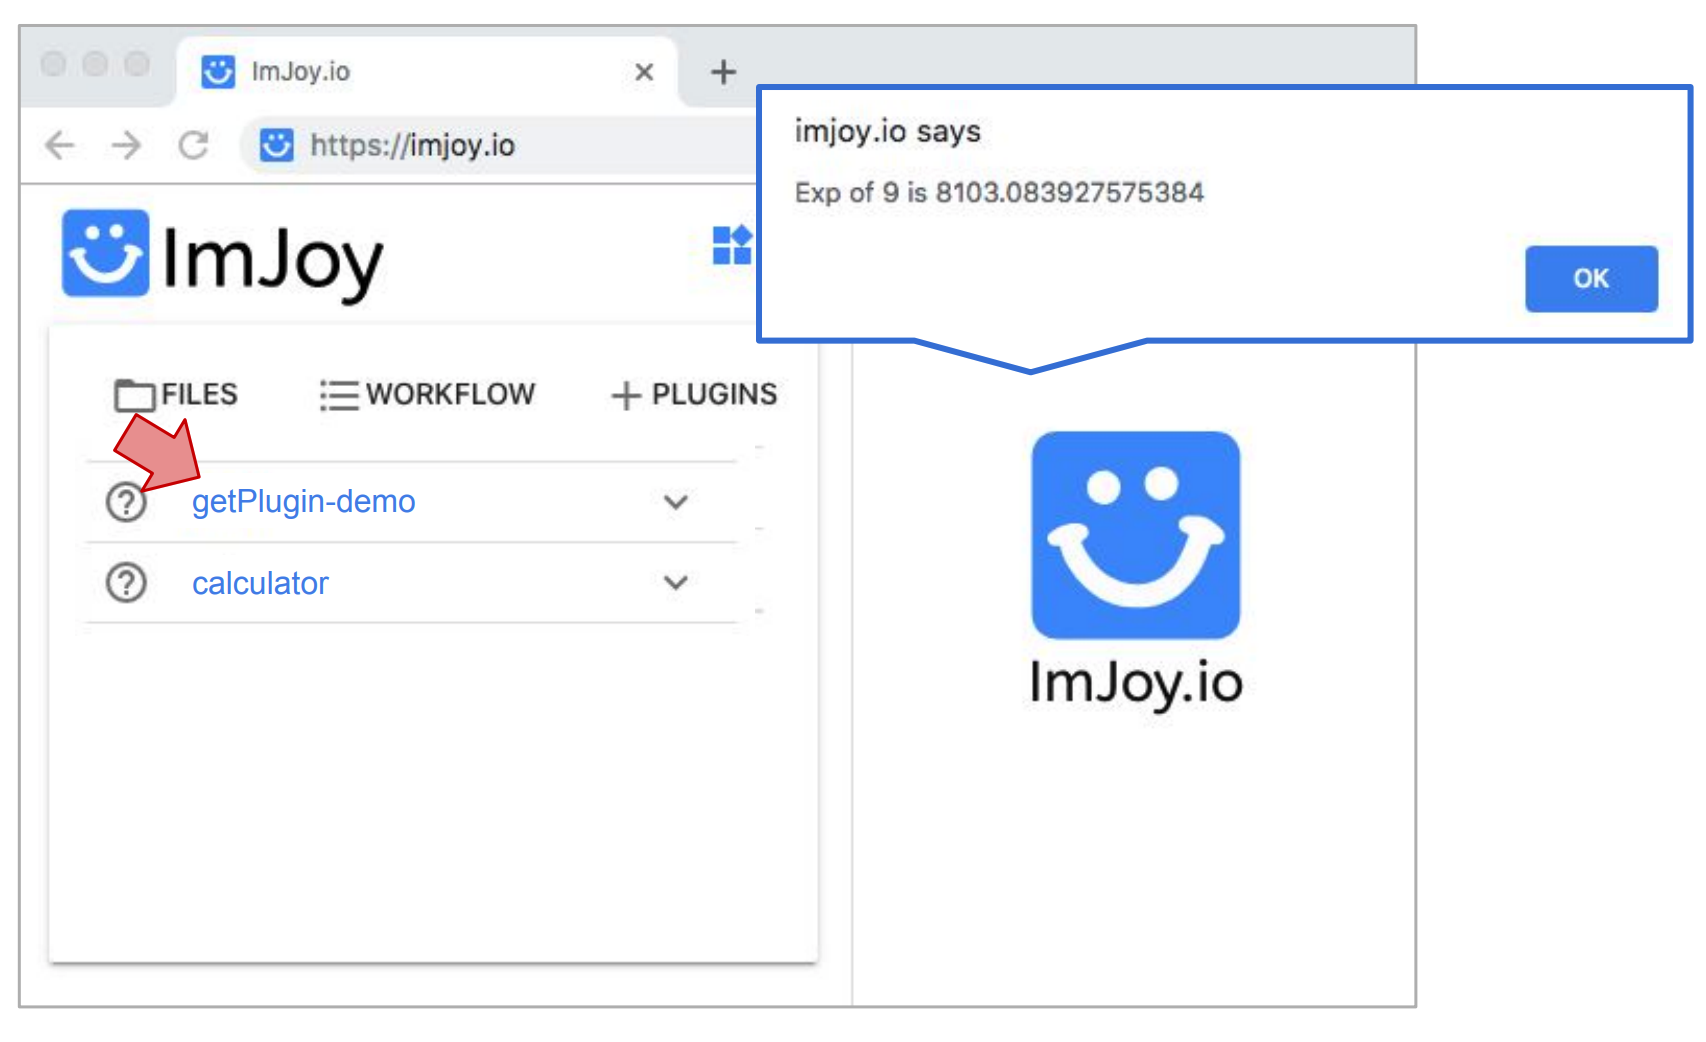
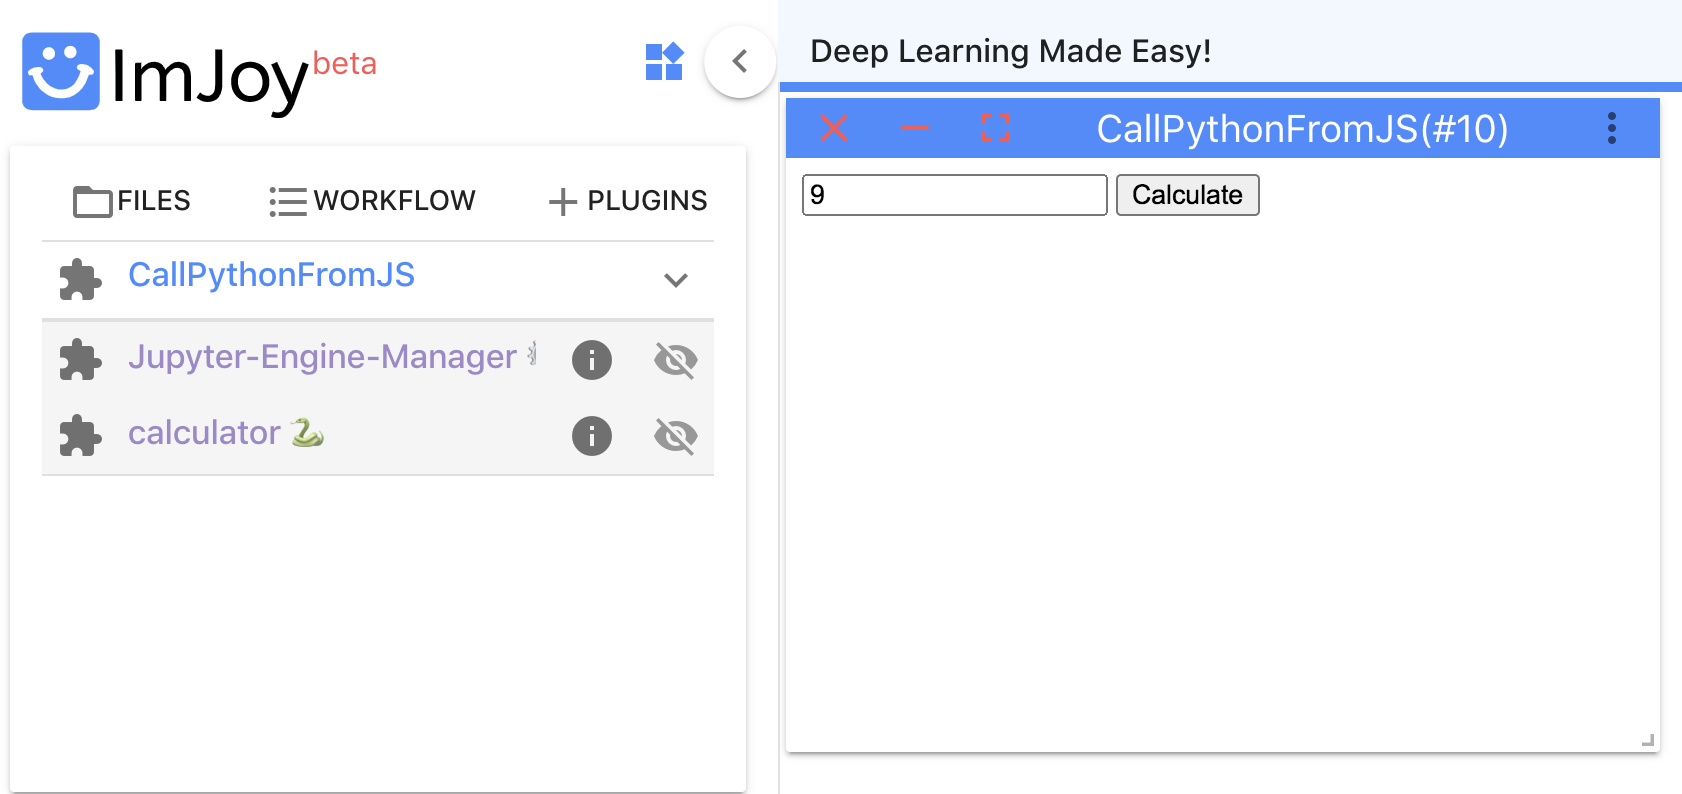
Improve tutorial (#396)

diff --git a/docs/tutorials.md b/docs/tutorials.md
@@ -1,15 +1,40 @@
 # Tutorials
 
 ## Calling Python from Javascript
+The most common design pattern in ImJoy is to make user interface with HTML/Javascript/CSS and do computation in Python. This tutorial shows how to make a window plugin to get user input, and pass to a Python plugin to perform computation with numpy.
 
 ImJoy provides a remote procedure call (RPC) mechanism which enables transparent function calls between plugins.
 
 This tutorial show how can call a function defined in Python in another Javascript plugin.
 
-First, let's create a plugin by using the `web-python` or `native-python`(plugin engine required) template.
+First, let's create a plugin by using the `web-python` template, add `numpy` as one of the requirements (`"requirements": ["numpy"]`) in the `<config>` block. We also set `runnable` to `false` since we are going to execute this plugin from another one.
 
 Then define a function called `calc_exp` which use numpy to calculate the natural exponential of input `x`:
-```python
+```html
+<config lang="json">
+{
+  "name": "calculator",
+  "type": "web-python",
+  "version": "0.1.0",
+  "description": "A simple calculator demo use numpy to calculate exp(x)",
+  "tags": [],
+  "ui": "Calculator",
+  "cover": "",
+  "inputs": null,
+  "outputs": null,
+  "flags": [],
+  "icon": "extension",
+  "api_version": "0.1.5",
+  "env": "",
+  "permissions": [],
+  "requirements": ["numpy"],
+  "dependencies": [],
+  "runnable": false
+}
+</config>
+
+<script lang="python">
+
 import numpy as np
 from imjoy import api
 
@@ -17,46 +42,78 @@ class ImJoyPlugin():
     def setup(self):
         pass
 
-    def run(self, ctx):
-        pass
-
     def calc_exp(self, x):
         return np.exp(x)
 
 api.export(ImJoyPlugin())
+</script>
 ```
-
-(Note: `asyncio`(async/await) is not supported yet for plugins with `type="web-python"`, see [here](https://github.com/iodide-project/pyodide/issues/245))
 
 Change the plugin name to `calculator` and save the plugin, you should be able to see `calculator` in the menu item in the left panel.
 
-After that, create another plugin with the `web-worker` template. In the `run` function, we will call `await api.getPlugin('calculator')` to obtain the plugin object of the Python plugin object we defined in the previous step. Then we can call `await calc.calc_exp(x)` to run the function.
 
-```javascript
+After that, create another plugin with the `window` template. In the plugin source code below, we first added an input box (id=`x-input`) and a button (id=`calc-btn`). Then in the `setup` function, we setup a `onclick` function for the button which will be called when the button is clicked. Inside the `onclick` function, we use `await api.getPlugin('calculator')` to obtain the plugin object of the Python plugin object we defined in the previous step. And finally, we can call `await calc.calc_exp(x)` to run the function and use `api.alert` to show the result.
+
+```html
+<config lang="json">
+{
+  "name": "CallPythonFromJS",
+  "type": "window",
+  "tags": [],
+  "ui": "",
+  "version": "0.1.0",
+  "cover": "",
+  "description": "[TODO: describe this plugin with one sentence.]",
+  "icon": "extension",
+  "inputs": null,
+  "outputs": null,
+  "api_version": "0.1.8",
+  "env": "",
+  "permissions": [],
+  "requirements": [],
+  "dependencies": [],
+  "defaults": {"w": 20, "h": 10}
+}
+</config>
+
+<script lang="javascript">
 class ImJoyPlugin {
   async setup() {
-
+    // setup a callback function for the button
+    document.getElementById('calc-btn').onclick = async function() {
+      // obtain the number from the input box
+      const x = parseFloat(document.getElementById('x-input').value)
+      // get the calculator plugin object (in Python)
+      const calc = await api.getPlugin('calculator')
+      const result = await calc.calc_exp(x)
+      console.log(result)
+      await api.alert("Exp of " + x + " is " + result)
+    }
   }
 
   async run(ctx) {
-    const x = 9
-    const calc = await api.getPlugin('calculator')
-    const result = await calc.calc_exp(x)
-    await api.alert("Exp of " + x + " is " + result)
+    
   }
 }
 
 api.export(new ImJoyPlugin())
+</script>
+
+<window lang="html">
+  <div>
+    <input id="x-input" value="9" type="number">
+    <button id="calc-btn">Calculate</button>
+  </div>
+</window>
 ```
 
-Name the plugin as `getPlugin-demo` and save the plugin. If you now click `getPlugin-demo` in the plugin menu, then you will be able to call a Python plugin in Javascript.
+Name the plugin as `CallPythonFromJS` and save the plugin. If you now click `CallPythonFromJS` in the plugin menu, then you will be able to call a Python plugin in Javascript.
 
-![imjoy-basic-workflow](assets/imjoy-function-call.png ':size=800')
+![imjoy-function-call](assets/imjoy-function-call.png ':size=800')
 
+Note: we didn't use `async/await` syntax in this example because `asyncio` is not supported yet for plugins with `type="web-python"`, see [here](https://github.com/iodide-project/pyodide/issues/245)
 
 As a quiz, You can also try the opposite example by defining a plugin in Javascript and call it in Python.
-
-
 
 ## Making a plugin for segmentation with U-net
 [U-net](https://lmb.informatik.uni-freiburg.de/people/ronneber/u-net/) is one of the most widely used neural network for image segmentation, especially for biomedical images.
